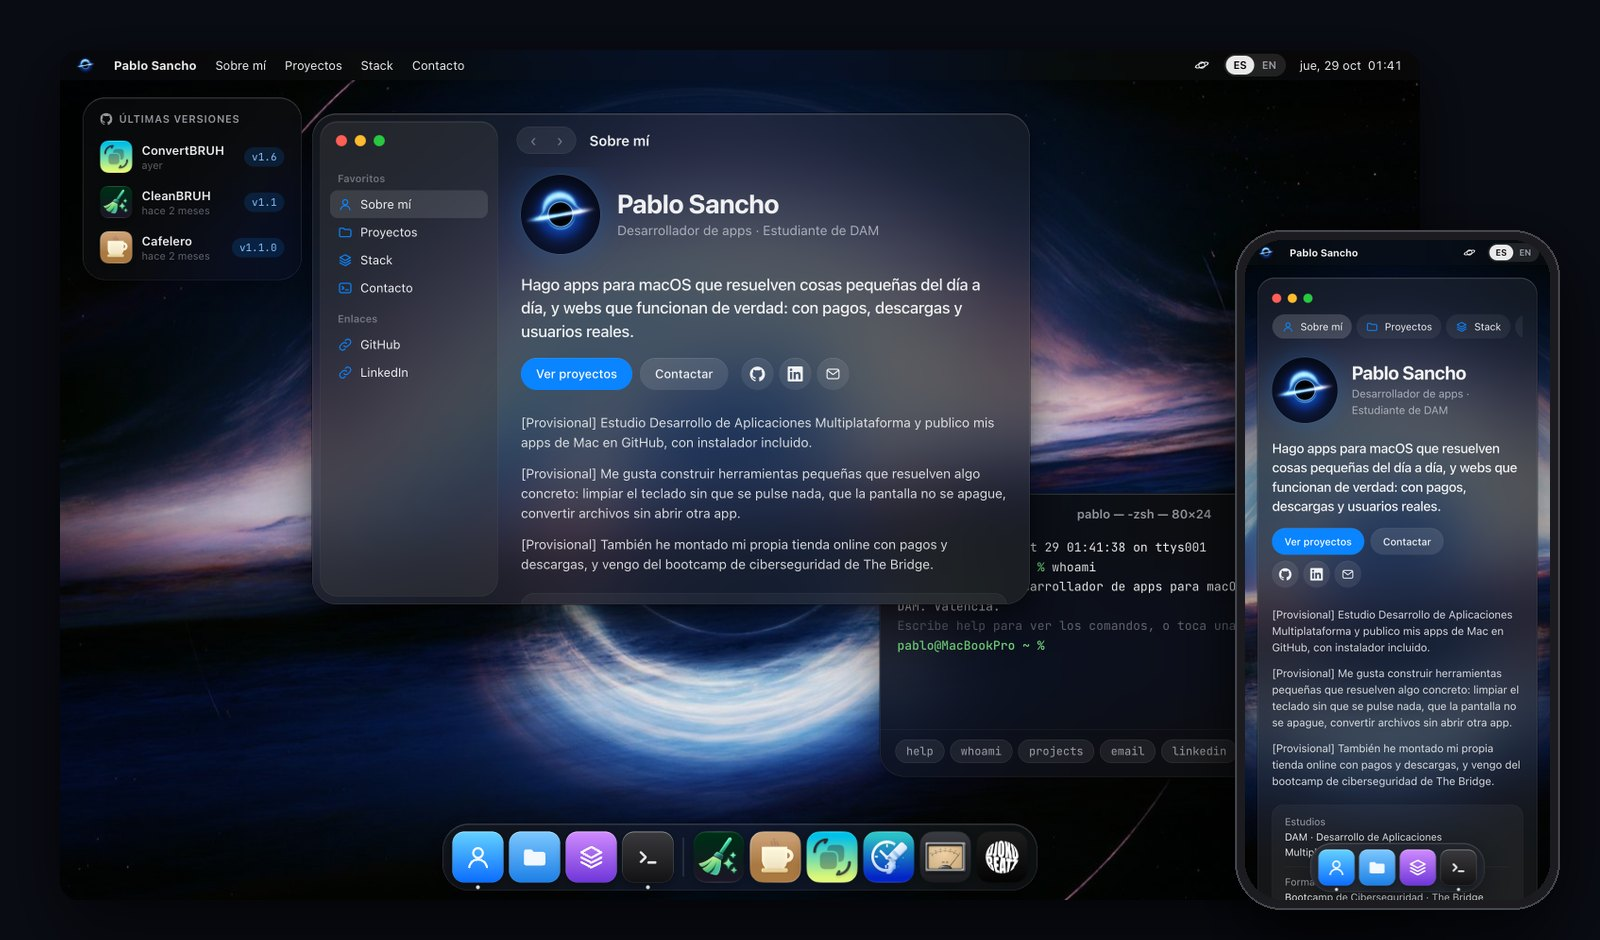
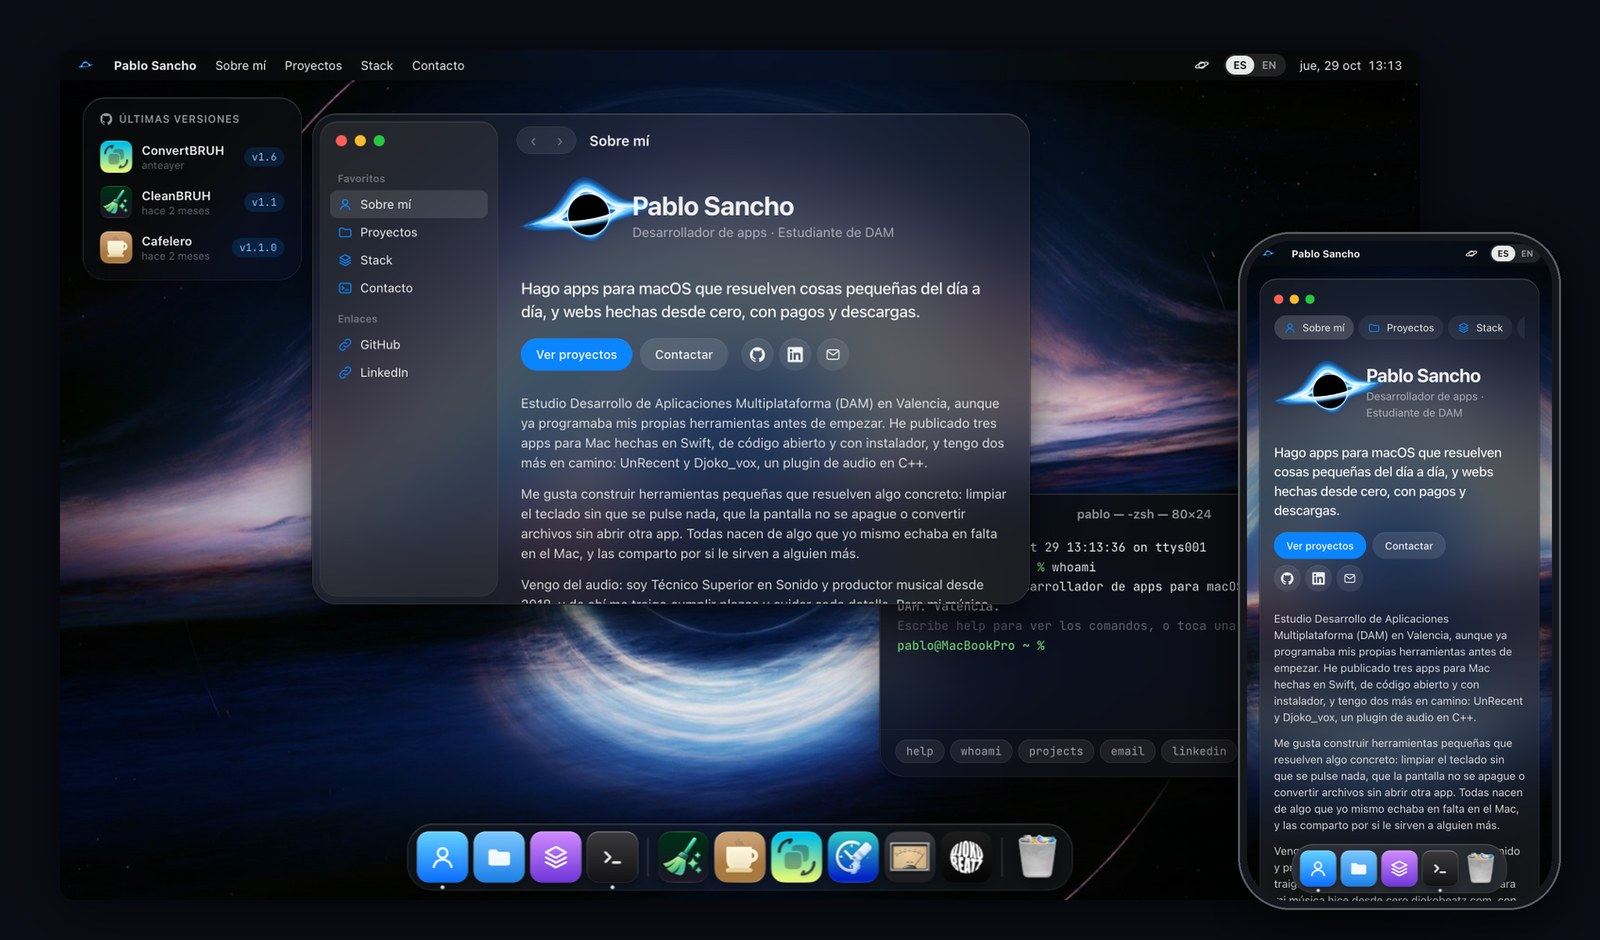
Textos de Sobre mí y portada nueva del README
- Sobre mí ya no tiene textos provisionales: DAM, las apps y por qué las
  hago, el audio, djokobeatz.com y The Bridge, en español e inglés.
- La portada del README, con el logo nuevo, la Papelera y estos textos.

diff --git a/js/i18n.js b/js/i18n.js
@@ -27,13 +27,13 @@ const TEXTS = {
     "widget.title": "Últimas versiones",
 
     "about.role": "Desarrollador de apps · Estudiante de DAM",
-    "about.lead": "Hago apps para macOS que resuelven cosas pequeñas del día a día, y webs que funcionan de verdad: con pagos, descargas y usuarios reales.",
+    "about.lead": "Hago apps para macOS que resuelven cosas pequeñas del día a día, y webs hechas desde cero, con pagos y descargas.",
     "about.ctaProjects": "Ver proyectos",
     "about.ctaContact": "Contactar",
     "about.email": "Correo",
-    "about.p1": "[Provisional] Estudio Desarrollo de Aplicaciones Multiplataforma y publico mis apps de Mac en GitHub, con instalador incluido.",
-    "about.p2": "[Provisional] Me gusta construir herramientas pequeñas que resuelven algo concreto: limpiar el teclado sin que se pulse nada, que la pantalla no se apague, convertir archivos sin abrir otra app.",
-    "about.p3": "[Provisional] También he montado mi propia tienda online con pagos y descargas, y vengo del bootcamp de ciberseguridad de The Bridge.",
+    "about.p1": "Estudio Desarrollo de Aplicaciones Multiplataforma (DAM) en Valencia, aunque ya programaba mis propias herramientas antes de empezar. He publicado tres apps para Mac hechas en Swift, de código abierto y con instalador, y tengo dos más en camino: UnRecent y Djoko_vox, un plugin de audio en C++.",
+    "about.p2": "Me gusta construir herramientas pequeñas que resuelven algo concreto: limpiar el teclado sin que se pulse nada, que la pantalla no se apague o convertir archivos sin abrir otra app. Todas nacen de algo que yo mismo echaba en falta en el Mac, y las comparto por si le sirven a alguien más.",
+    "about.p3": "Vengo del audio: soy Técnico Superior en Sonido y productor musical desde 2018, y de ahí me traigo cumplir plazos y cuidar cada detalle. Para mi música hice desde cero djokobeatz.com, con tienda, pagos y descargas seguras. Y del bootcamp de ciberseguridad de The Bridge, la costumbre de pensar en la seguridad desde el primer día.",
     "about.k.studies": "Estudios",
     "about.v.studies": "DAM · Desarrollo de Aplicaciones Multiplataforma",
     "about.k.training": "Formación",
@@ -126,13 +126,13 @@ const TEXTS = {
     "widget.title": "Latest releases",
 
     "about.role": "App developer · Multiplatform App Development student",
-    "about.lead": "I build macOS apps that fix small everyday annoyances, and websites that work for real: payments, downloads and real users.",
+    "about.lead": "I build macOS apps that fix small everyday annoyances, and websites built from scratch, with payments and downloads.",
     "about.ctaProjects": "See projects",
     "about.ctaContact": "Get in touch",
     "about.email": "Email",
-    "about.p1": "[Placeholder] I'm studying Multiplatform Application Development and I publish my Mac apps on GitHub, installer included.",
-    "about.p2": "[Placeholder] I like building small tools that solve one specific thing: cleaning the keyboard without pressing anything, keeping the screen awake, converting files without opening another app.",
-    "about.p3": "[Placeholder] I've also built my own online store with payments and downloads, and I did The Bridge's cybersecurity bootcamp.",
+    "about.p1": "I'm studying Multiplatform Application Development (DAM) in Valencia, Spain, though I was already building my own tools before I started. I've released three open-source Mac apps written in Swift, each with an installer, and two more are on the way: UnRecent and Djoko_vox, an audio plugin in C++.",
+    "about.p2": "I like building small tools that solve one specific thing: cleaning the keyboard without pressing anything, keeping the screen awake or converting files without opening another app. Each one started as something I was missing on my own Mac, and I share them in case they help someone else.",
+    "about.p3": "I come from audio: I'm a qualified Sound Technician and I've been a music producer since 2018, which taught me to meet deadlines and care about every detail. For my music I built djokobeatz.com from scratch, with a store, payments and secure downloads. And The Bridge's cybersecurity bootcamp left me with the habit of thinking about security from day one.",
     "about.k.studies": "Studies",
     "about.v.studies": "DAM · Multiplatform Application Development",
     "about.k.training": "Training",
